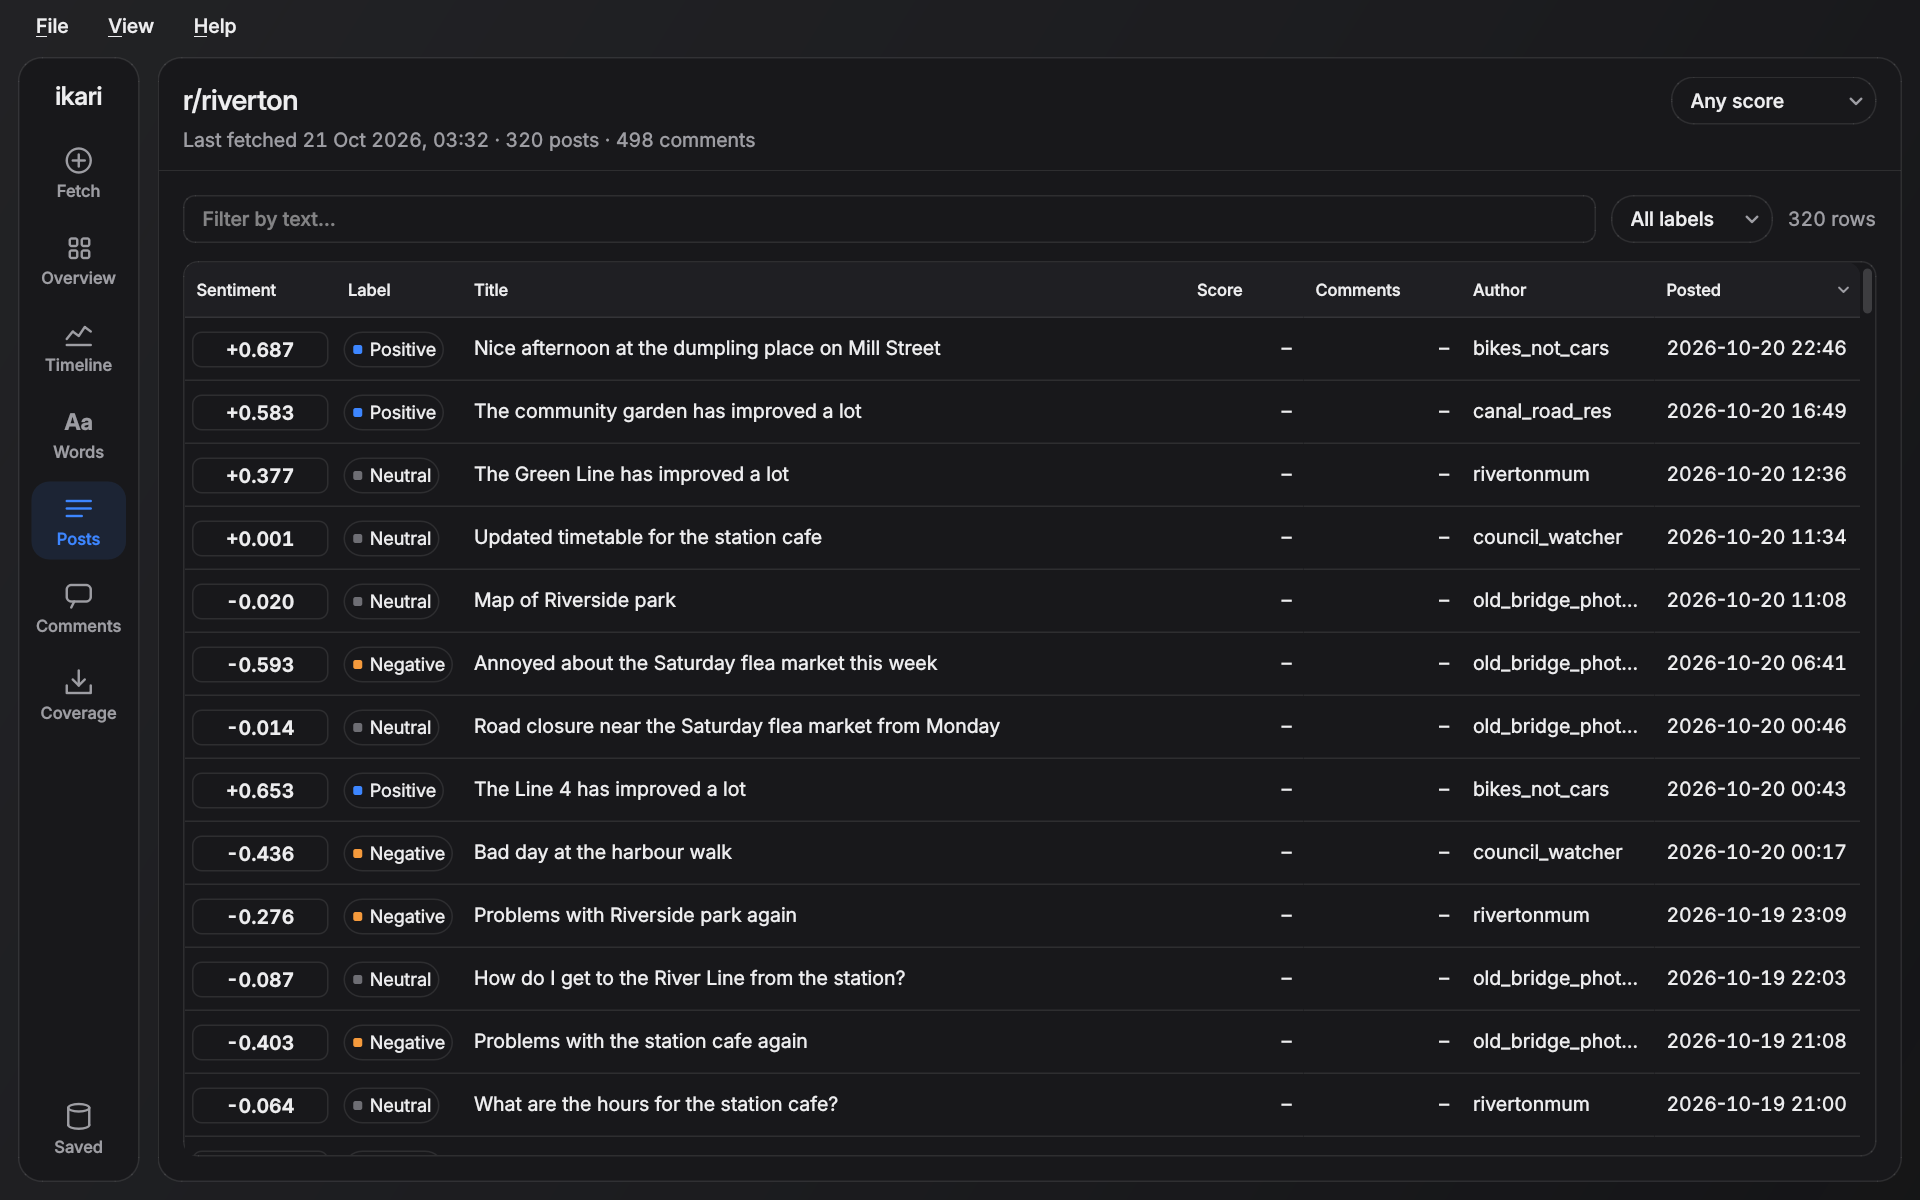
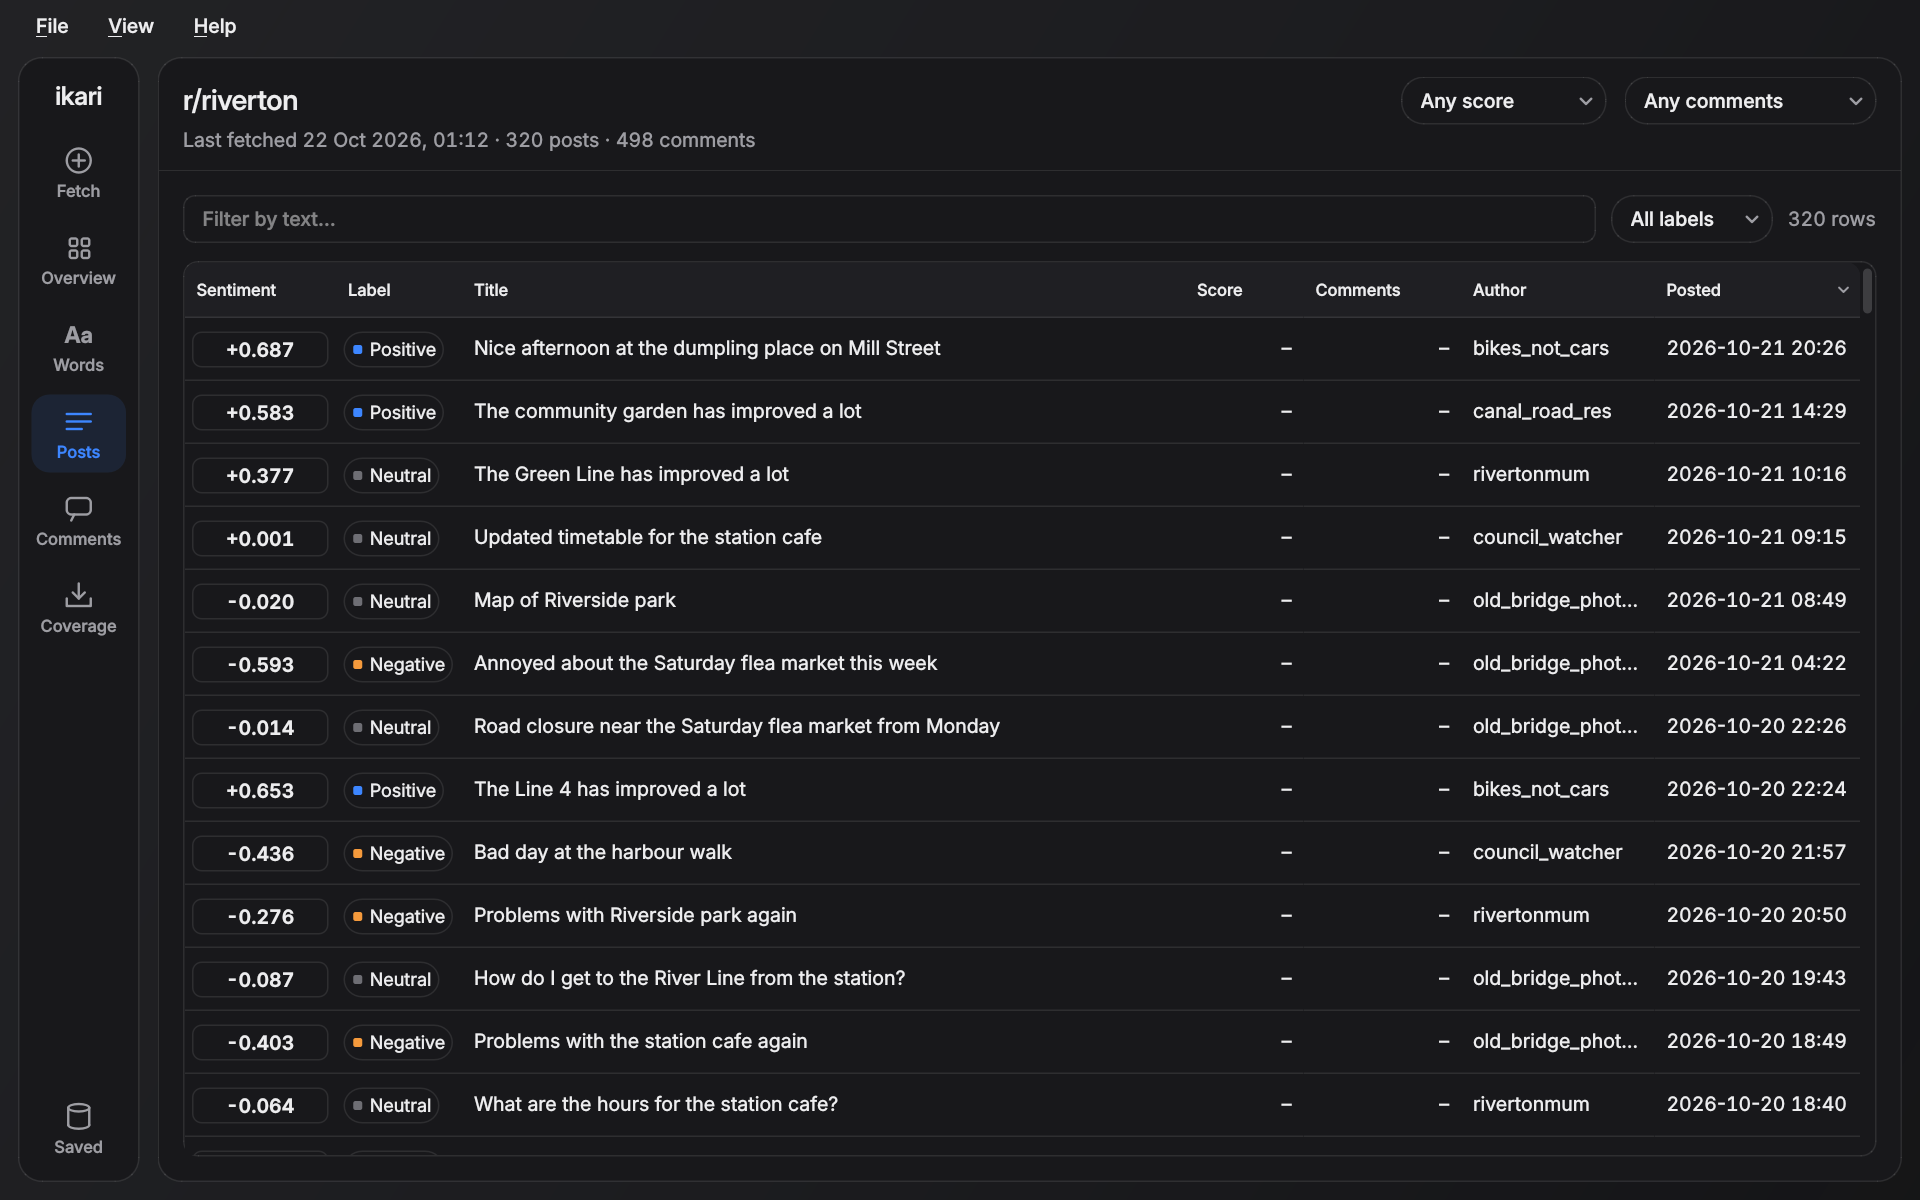
README: describe what main does now, fresh screenshots
Features cover the nav rail pages, the timeline on Overview, word meanings,
search and filters, Coverage's batch download and delete, day packs and fast
opening, Reduce motion, import and the data folder. The Arctic Shift section
describes fetching every post in the range with a per-post comment cap.
Windows and Linux are both released. Screenshots regenerated from main (no
Timeline rail page, the Coverage redesign); the screenshot tool now waits for
the Overview's word cloud.

Claude-Session: https://claude.ai/code/session_019biGPtMkMSmeeFnxmMU1ya

diff --git a/tools/screenshot.py b/tools/screenshot.py
@@ -150,7 +150,7 @@ def main(argv: list[str] | None = None) -> int:
             cov.day_table.selectRow(3)
             cov.ticked = set(cov.days[2:4])
             cov._show_ticked()
-        settle(app, 1.5 if page in ("coverage", "words") else 0.3)  # counts, tallies, charts
+        settle(app, 1.5 if page in ("coverage", "words", "overview") else 0.3)  # counts, word tallies, charts
         path = out / name
         window.grab().save(str(path))
         print("wrote", path)

diff --git a/README.md b/README.md
@@ -11,7 +11,7 @@ for Windows and Linux (macOS runs from source, not released for now).</p>
 <p>
   <a href="https://github.com/nekomancer01/ikari/releases"><img alt="Latest release" src="https://img.shields.io/github/v/release/nekomancer01/ikari?style=flat-square&color=6C5CE7"></a>
   <a href="https://github.com/nekomancer01/ikari/actions/workflows/build.yml"><img alt="Build status" src="https://img.shields.io/github/actions/workflow/status/nekomancer01/ikari/build.yml?branch=main&style=flat-square&label=build"></a>
-  <img alt="Windows" src="https://img.shields.io/badge/platforms-Windows-555?style=flat-square">
+  <img alt="Windows and Linux" src="https://img.shields.io/badge/platforms-Windows%20%7C%20Linux-555?style=flat-square">
   <img alt="Python 3.10+" src="https://img.shields.io/badge/python-3.10%2B-3776AB?style=flat-square&logo=python&logoColor=white">
   <img alt="Built with Qt" src="https://img.shields.io/badge/Qt-PySide6-41CD52?style=flat-square&logo=qt&logoColor=white">
 </p>
@@ -33,7 +33,7 @@ for Windows and Linux (macOS runs from source, not released for now).</p>
 
 <picture>
   <source media="(prefers-color-scheme: dark)" srcset="docs/overview-dark.png">
-  <img alt="Overview page: summary tiles, mean sentiment per day, the sentiment split and a word cloud" src="docs/overview-light.png" width="100%">
+  <img alt="Overview page: summary tiles, the timeline of mean sentiment per day, the sentiment split and a word cloud" src="docs/overview-light.png" width="100%">
 </picture>
 
 </div>
@@ -47,6 +47,13 @@ for Windows and Linux (macOS runs from source, not released for now).</p>
       </picture>
       <p align="center"><sub><b>Words</b>: the most used words, blue for positive and orange for negative; set what a word means in a subreddit</sub></p>
     </td>
+    <td width="50%" valign="top">
+      <picture>
+        <source media="(prefers-color-scheme: dark)" srcset="docs/coverage-dark.png">
+        <img alt="Coverage page: each day's saved posts and comment threads against the archive's totals, with batch download and delete" src="docs/coverage-light.png">
+      </picture>
+      <p align="center"><sub><b>Coverage</b>: see which days are saved, download what's missing, delete days to fetch again</sub></p>
+    </td>
   </tr>
   <tr>
     <td width="50%" valign="top">
@@ -54,7 +61,7 @@ for Windows and Linux (macOS runs from source, not released for now).</p>
         <source media="(prefers-color-scheme: dark)" srcset="docs/posts-dark.png">
         <img alt="Posts page: a sortable, filterable table of posts with sentiment scores and labels" src="docs/posts-light.png">
       </picture>
-      <p align="center"><sub><b>Posts</b>: sort, filter by text or label, double-click to open on Reddit</sub></p>
+      <p align="center"><sub><b>Posts</b>: sort, search the text, filter by label, score or comments, double-click to open on Reddit</sub></p>
     </td>
     <td width="50%" valign="top">
       <picture>
@@ -63,16 +70,6 @@ for Windows and Linux (macOS runs from source, not released for now).</p>
       </picture>
       <p align="center"><sub><b>Comments</b>: every reply, scored, with the post it belongs to</sub></p>
     </td>
-  </tr>
-  <tr>
-    <td width="50%" valign="top">
-      <picture>
-        <source media="(prefers-color-scheme: dark)" srcset="docs/coverage-dark.png">
-        <img alt="Coverage page: each day's saved posts against the archive's total, with batch download and delete" src="docs/coverage-light.png">
-      </picture>
-      <p align="center"><sub><b>Coverage</b>: see which days are saved, download what's missing, delete days to fetch again</sub></p>
-    </td>
-    <td></td>
   </tr>
 </table>
 
@@ -83,19 +80,31 @@ r/riverton, whose new tram line breaks down for a week, at 1920x1200 and 150% sc
 ## Features
 
 - 📥 **Fetch** any subreddit for a date range (a preset like "Past week", or your own From and To
-  dates), optionally narrowed by keywords. Comments come along by default. No Reddit account or API
-  key is needed.
+  dates), optionally narrowed by keywords. A fetch saves every post in the range, one day at a time,
+  and comments come along by default: keep the top-scoring or a random few per post, or all of them.
+  No Reddit account or API key is needed. Every page updates live while a fetch runs.
 - 🧠 **Score sentiment offline** with a small bundled classifier (TF-IDF plus
   [VADER](https://github.com/cjhutto/vaderSentiment) features) trained on GoEmotions Reddit
   comments. Nothing leaves your machine for scoring.
-- 📊 **See the overview**: summary tiles, the sentiment split, mean sentiment per day, and the
-  most positive and negative items.
-- 🔎 **Browse posts and comments** in sortable, filterable tables. Double-click a row to open it
-  on Reddit.
-- 💾 **Keep your data** in a local SQLite database. Fetching again updates existing rows, and
-  File → Export writes CSV.
+- 📊 **See the overview**: summary tiles, a timeline of mean sentiment per day, the sentiment split
+  and a word cloud. Zoom, drag or pick a range (1w to All) on the timeline and every page counts only
+  those days. Click a day to pin a note on it ("tram line opens").
+- 🔤 **Words**: the most used words, sized by use and coloured by which way they lean. Click one to
+  set what it means in this subreddit (a game's "kill" isn't violent), and ikari scores the saved
+  posts and comments again with it and says what changed.
+- 🔎 **Browse posts and comments** in sortable tables. Search their text (a full-text index answers
+  in a moment, even across millions of rows) and filter by label, score or comment count. Double-click a
+  row to open it on Reddit.
+- 🗓 **Coverage** shows, for each day you've fetched, how many of the archive's posts and comment
+  threads are saved. Tick days to download what's missing (posts, comments or both, with a comment
+  cap), check a day again, or delete days to fetch them afresh.
+- 💾 **Keep your data** in one local SQLite database, compressed into one pack per day, so a big
+  subreddit opens with its overview in about a second and its tables scroll smoothly. File menu:
+  export CSV, import another database, open the data folder, or delete saved data. Saved (bottom of
+  the rail) switches between subreddits.
 - 🌗 **Pick a theme**: the glass interface comes in light and dark (View menu, or follow the
-  system). **Reduce transparency** makes every panel opaque.
+  system). **Reduce transparency** makes every panel opaque, **Reduce motion** turns animations
+  off, and the background can tint with the subreddit's mood.
 - 🔄 **Stay up to date**: Help → Check for updates… finds a newer release on GitHub, downloads it
   and hands off to the installer. It also checks at startup, which you can turn off.
 
@@ -121,13 +130,13 @@ flowchart LR
     A["Arctic Shift<br/>Reddit archive"] --> B["Fetch<br/>posts + comments, rate limited"]
     B --> C["Clean<br/>strip quotes, code, URLs"]
     C --> D["Score<br/>bundled classifier"]
-    D --> E[("SQLite<br/>on your machine")]
-    E --> F["Overview, Posts,<br/>Comments, CSV"]
+    D --> E[("SQLite day packs<br/>on your machine")]
+    E --> F["Overview, Words, Posts,<br/>Comments, Coverage, CSV"]
 ```
 
 ## Download
 
-Ready-made builds for Windows are attached to each
+Ready-made builds for Windows and Linux are attached to each
 [release](https://github.com/nekomancer01/ikari/releases). Builds of the latest `main` are on the
 [Actions tab](https://github.com/nekomancer01/ikari/actions/workflows/build.yml) (open a run, then
 *Artifacts*).
@@ -149,7 +158,7 @@ Ready-made builds for Windows are attached to each
 > - **macOS** (when built yourself) Gatekeeper ("can't be opened because Apple cannot check it"): right-click the app,
 >   choose **Open**, then **Open** again. On macOS 15, if there's no Open button, go to
 >   **System Settings → Privacy & Security** and click **Open Anyway**.
-> - **Linux** (when built yourself): the AppImage needs FUSE 2 (`sudo apt install libfuse2` on Ubuntu 22.04,
+> - **Linux**: the AppImage needs FUSE 2 (`sudo apt install libfuse2` on Ubuntu 22.04,
 >   `libfuse2t64` on 24.04), or run it with `--appimage-extract-and-run`. Qt also needs
 >   `libxcb-cursor0` on X11, which some minimal installs lack.
 
@@ -182,9 +191,9 @@ On Windows you can instead double-click `packaging\build-windows.bat`. Everythin
 [Inno Setup 6](https://jrsoftware.org/isinfo.php)), the `.app` and `.dmg` on macOS, and the
 AppImage and `.tar.gz` on Linux.
 
-The workflow in `.github/workflows/build.yml` builds and launch-checks all four targets on every
-push to `main` and every pull request. Pushing a `v*` tag also publishes a GitHub release with
-the packages attached. The version comes from `__version__` in `src/subsentiment/__init__.py`.
+The workflow in `.github/workflows/build.yml` builds and launch-checks Windows and Linux on every
+push to `main` (macOS too when run by hand with "all_platforms" ticked). Pushing a `v*` tag also
+publishes a GitHub release with the packages attached. The version comes from `__version__` in `src/subsentiment/__init__.py`.
 
 </details>
 
@@ -220,15 +229,13 @@ new API apps, and has announced that its public API closes in March 2027.
 
 Things to know about the archive:
 
-- **You pick a date range, and posts are spread across it.** Choose a preset under **Posted** or set
-  your own **From** and **To** dates. The range is cut into equal parts (up to four a day) and
-  **Max posts** is shared equally between them, so a week with 70 posts gives about 10 a day instead
-  of the 70 newest. Quiet parts hand their share to busier ones. Fetching the same range again adds
-  posts you don't have yet, rather than the same ones.
-- **Top posts are ranked by ikari, not the archive.** The archive can only search by date. With
-  **Pick** set to **Top by score**, ikari reads a pool of posts from each day of the range and keeps
-  the highest-scored. Only posts the archive has re-checked have scores (see below), so the newest
-  posts can't be ranked and come after scored ones.
+- **You pick a date range, and ikari saves every post in it.** Choose a preset under **Posted** or set
+  your own **From** and **To** dates. The range is read one UTC day at a time, and each day read to its
+  end is recorded, so Coverage knows which days are complete. Fetching the same range again only adds
+  what's new. The archive can only search by date and keywords; sorting by score happens in ikari.
+- **Comments are capped per post.** **Keep** sets how many comments each post keeps (50 by default, or
+  All) and whether those are the top-scoring or a random sample that stays the same for each post.
+  Coverage has its own cap for its downloads.
 - **Scores and comment counts arrive late.** The archive saves each post within seconds, then fetches
   it again later, usually about 36 hours after posting and sometimes up to a week. Until then
   Reddit's numbers aren't known, so the Score and Comments columns show a dash. The next fetch of that
@@ -242,12 +249,12 @@ Things to know about the archive:
   off on server and network errors. When a query times out ("Timeout. Maybe slow down a bit"), it
   waits, asks for a smaller page, then searches a narrower slice of time. The status line says when
   it's waiting and why.
-- **Comments take one request per post.** ikari asks for each post's whole comment tree at once and
-  keeps the highest-scored. If a post's comments can't be fetched, it moves on to the next; after
+- **Comments take one request per post.** ikari asks for each post's comment tree at once and keeps
+  what the cap says. If a post's comments can't be fetched, it moves on to the next; after
   five failures in a row it stops asking, and the next fetch of the range picks up the posts that
   are still missing comments.
 - **It's a volunteer service** with no uptime guarantee. Items that were removed or deleted on Reddit
-  are skipped.
+  are skipped, and so are image posts, which have no text to score.
 
 Upgrading from a version that used Reddit API keys? ikari clears the saved client id and secret from
 its settings on start. A copy may remain in your system's credential store (Windows Credential
@@ -294,17 +301,21 @@ Layout:
 | `src/subsentiment/reddit.py` | Post and comment data types, subreddit-name checks |
 | `src/subsentiment/sentiment.py` | Text cleanup + scoring (bundled model, VADER fallback) |
 | `src/subsentiment/sentiment_model.py` | Loads the bundled classifier and its feature code |
-| `src/subsentiment/store.py` | SQLite storage, CSV export, summary helpers |
+| `src/subsentiment/store.py` | SQLite storage: day packs (zstd per subreddit, kind and UTC day), FTS5 search, CSV export |
+| `src/subsentiment/index.py` | RowIndex: a saved subreddit's rows as numpy arrays, so big ones sort, filter and count quickly |
+| `src/subsentiment/analysis.py` | Overview numbers and word counts |
 | `src/subsentiment/updater.py` | Looks up the latest GitHub release and downloads it |
 | `tools/train_model.py` | Trains the bundled sentiment classifier on GoEmotions |
 | `tools/eval_sentiment.py` | Scores accuracy against GoEmotions (the numbers in Features) |
 | `tools/screenshot.py` | Renders the README screenshots in `docs/` from invented sample data |
 | `tools/sample_text.py` | The invented r/riverton posts and comments the screenshots use |
 | `src/subsentiment/collect.py` | One fetch job: refresh saved scores, pick new posts, fetch comments, score, store |
-| `src/subsentiment/gui/` | Qt main window, charts, table models, background worker |
+| `src/subsentiment/gui/` | Qt main window, nav rail, pages (overview, words, tables, coverage), charts, background worker |
 | `src/subsentiment/gui/theme.py` | Glass theme: color tokens, stylesheet, fonts, backdrop |
 | `src/subsentiment/gui/native/` | Per-OS integration: Windows title bar and Mica/Acrylic, macOS menus and vibrancy, Linux desktop id and theme |
 | `packaging/build.py` | One build entry for all platforms (PyInstaller, then zip/installer, .dmg, or AppImage/.tar.gz) |
 | `packaging/` | PyInstaller spec, Inno Setup installer, Linux AppRun/.desktop/install.sh |
 | `tools/live_check.py` | Fetches a small sample from the real archive and prints what came back |
+| `tools/live_gui_check.py` | Runs the real window against the live archive: a fetch, then Coverage's counts and downloads |
+| `tools/perf.py` | Frame times and stalls with a big generated subreddit (timeline drags, page and subreddit switches) |
 | `tools/make_icon.py` | Regenerates the app icons (needs Pillow) |
